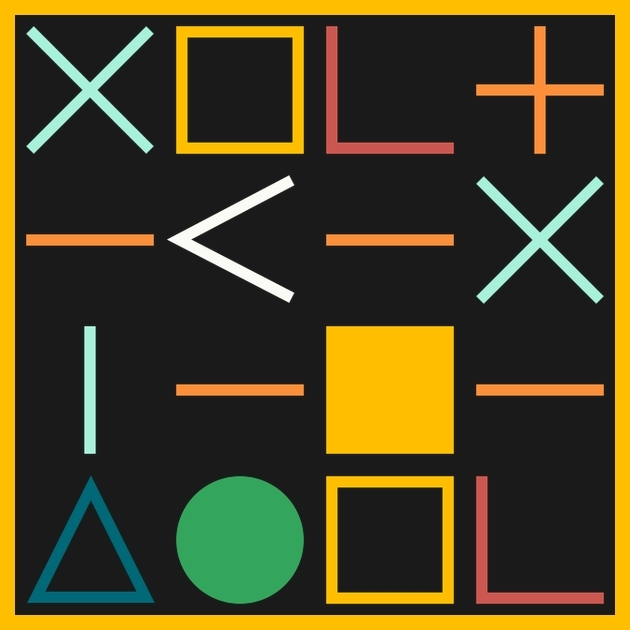
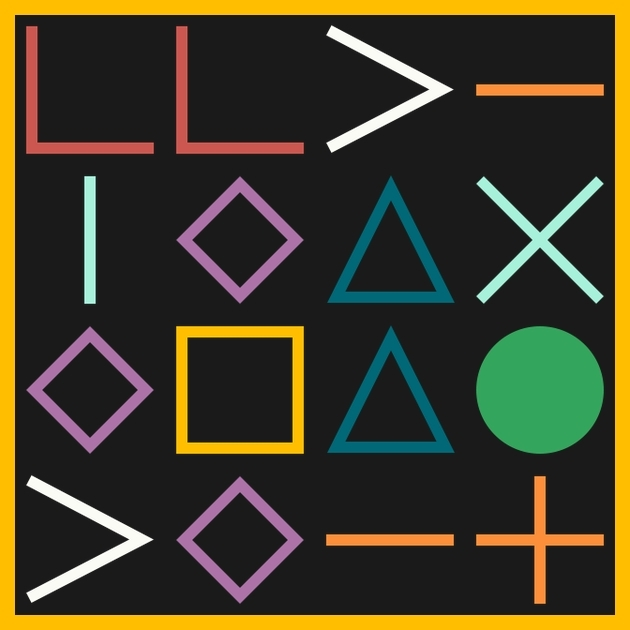
update tests

diff --git a/coji-create.py b/coji-create.py
@@ -5,34 +5,33 @@ import base64
 import requests as r
 
 in_data = {
-  'in-data': 'LOL',
-  'data-type': 'text',
-  'style-info': {
-    'name': 'geom-original',
-    # 'background-color': (255, 191, 0),
-    # 'border': {
-    #     'border-size': 15,
-    #     'border-color': (26, 26, 26),
-    # }
-  },
-  'user-id': 'asdasd222'
+    'in-data': open('test_data.txt', 'r', encoding='utf8').read(),
+    'data-type': 'text',
+    'style-info': {
+        'name': 'geom-original',
+        # 'background-color': (255, 191, 0),
+        # 'border': {
+        #     'border-size': 15,
+        #     'border-color': (26, 26, 26),
+        # }
+    },
+    'user-id': '325235323235352'
 }
 
 in_data_small = {
-  'in-data': 'LOL',
-  'data-type': 'text',
-  'style-info': {
-  	'size': 300,
-    'name': 'geom-small',
-    # 'background-color': (255, 191, 0),
-    # 'border': {
-    #     'border-size': 5,
-    #     'border-color': (26, 26, 26),
-    # }
-  },
-  'user-id': 'asdasd222'
+    'in-data': '2edsd',
+    'data-type': 'text',
+    'style-info': {
+        'size': 1000,
+        'name': 'geom-small',
+        # 'background-color': (255, 191, 0),
+        # 'border': {
+        #     'border-size': 5,
+        #     'border-color': (26, 26, 26),
+        # }
+    },
+    'user-id': 'asdasd222'
 }
-
 
 resp = r.post('http://localhost:8000/coji-code/create', json=in_data)
 img = base64.b64decode(resp.json()['image'])

diff --git a/coji-decode.py b/coji-decode.py
@@ -13,7 +13,17 @@ in_data = {
     }
 }
 
-in_data['in-data'] = base64.encodebytes(open('photo_2022-08-12_16-24-41.jpg', 'rb').read()).decode()
+in_data['in-data'] = base64.encodebytes(open("C:\\Users\\maxfyk\\Downloads\\test.jpg", 'rb').read()).decode()
+
+in_data = {
+    'decode-type': 'keyboard',
+    'in-data': 'bbjhodfpdefajdhi',
+    'user-id': 'asd22',
+    'style-info': {
+        'name': 'geom-original',
+    }
+}
+
 start_time = time.time()
 resp = r.get('http://localhost:8000/coji-code/decode', json=in_data)
 print("--- %s seconds ---" % (time.time() - start_time))
